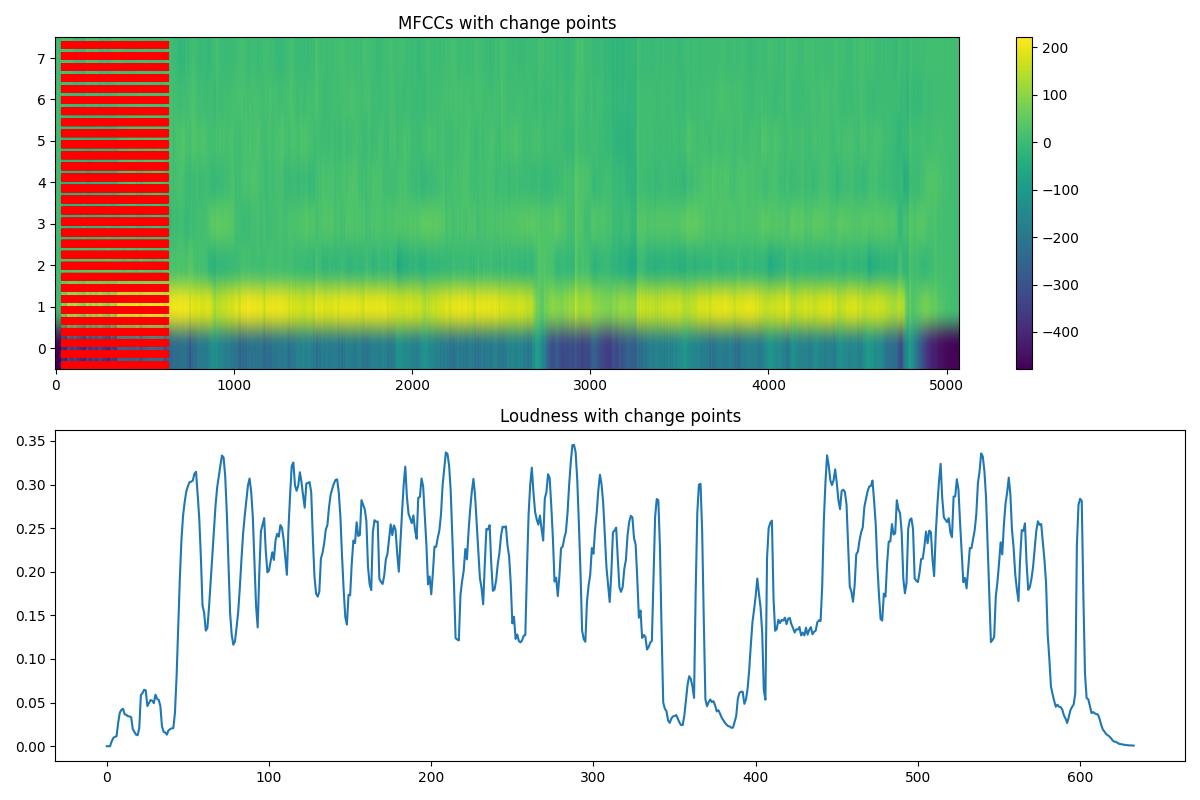
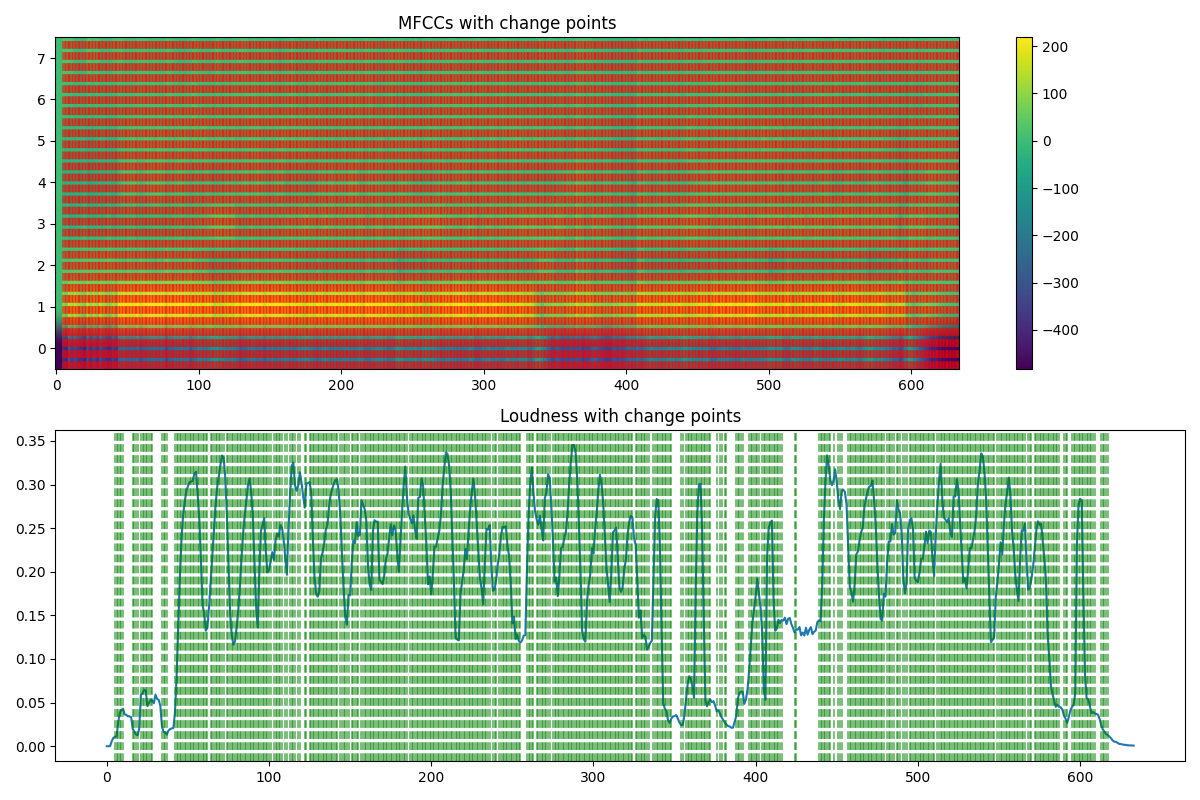
some progress

diff --git a/visualizer.py b/visualizer.py
@@ -62,13 +62,14 @@ y, sr = librosa.load("input.mp3", sr=sr)
 
 # # get chords from the whole track
 # ...
-# ..
 
 # get sequences of features over time
-mfccs = librosa.feature.mfcc(y=y, sr=sr, n_mfcc=8)
+hop_length = 512 * 8  # Use consistent hop length
+mfccs = librosa.feature.mfcc(y=y, sr=sr, n_mfcc=8, hop_length=hop_length)
 loudness = librosa.feature.rms(
-    y=y, frame_length=2048 * 8, hop_length=512 * 8
+    y=y, frame_length=2048 * 8, hop_length=hop_length
 )  # Simple RMS as perceptual loudness
+
 # plot each feature
 plt.figure(figsize=(12, 8))
 plt.subplot(2, 1, 1)
@@ -82,72 +83,82 @@ plt.savefig("features.png")
 
 
 # get major turn points in these features
-# categorize them as "major increase", "medium increase", "major decrease", "medium decrease"
-# and keep their timestamps
-def detect_significant_changes(mfccs, loudness, window_size=20):
+def detect_significant_changes(mfccs, loudness, window_size=4):
     """
     Detects significant changes in MFCCs and loudness over time using a sliding window.
-    Returns a dataframe with timestamps of significant changes.
-
-    Args:
-        mfccs: MFCC features with shape (n_mfcc, n_frames)
-        loudness: RMS loudness with shape (1, n_frames)
-        window_size: Size of window to detect changes (in frames)
+    Returns two separate dataframes for MFCC and loudness changes.
     """
-    # Number of frames (use the minimum to handle different lengths)
-    n_frames = min(mfccs.shape[1], loudness.shape[1])
-
-    # Initialize lists to store results
-    timestamps = []
+    # Initialize lists for MFCC changes
+    mfcc_timestamps = []
     mfcc_changes = []
+    mfcc_directions = []
+
+    # Initialize lists for loudness changes
+    loudness_timestamps = []
     loudness_changes = []
-    categories = []
+    loudness_directions = []
 
     # Define thresholds
-    major_threshold = 0.5
-    medium_threshold = 0.2
+    major_mfcc_threshold = 0.5
+    medium_mfcc_threshold = 0.2
+    major_loudness_threshold = 0.02
+    medium_loudness_threshold = 0.01
 
     # Use a sliding window to detect changes
-    for i in range(window_size, n_frames):
-        # Calculate change in MFCCs (average across all coefficients)
+    for i in range(window_size, mfccs.shape[1]):
+        # Calculate change in MFCCs
         mfcc_diff = np.mean(np.abs(mfccs[:, i] - mfccs[:, i - window_size]))
+        mfcc_direction = (
+            "Increase"
+            if np.mean(mfccs[:, i]) > np.mean(mfccs[:, i - window_size])
+            else "Decrease"
+        )
+        # Track MFCC changes separately
+        if mfcc_diff > medium_mfcc_threshold:
+            mfcc_timestamps.append(i)
+            mfcc_changes.append(mfcc_diff)
+            category = "Major" if mfcc_diff > major_mfcc_threshold else "Medium"
+            mfcc_directions.append(f"{category} {mfcc_direction}")
 
+    for i in range(window_size, loudness.shape[1]):
         # Calculate change in loudness
         loudness_diff = np.abs(loudness[0, i] - loudness[0, i - window_size])
+        loudness_direction = (
+            "Increase" if loudness[0, i] > loudness[0, i - window_size] else "Decrease"
+        )
 
-        # Only add points with significant changes
-        if mfcc_diff > medium_threshold or loudness_diff > medium_threshold:
-            timestamps.append(i)
-            mfcc_changes.append(mfcc_diff)
+        # Track loudness changes separately
+        if loudness_diff > medium_loudness_threshold:
+            loudness_timestamps.append(i)
             loudness_changes.append(loudness_diff)
+            category = "Major" if loudness_diff > major_loudness_threshold else "Medium"
+            loudness_directions.append(f"{category} {loudness_direction}")
 
-            # Categorize the change
-            if mfcc_diff > major_threshold:
-                categories.append("Major MFCC Change")
-            elif mfcc_diff > medium_threshold:
-                categories.append("Medium MFCC Change")
-            elif loudness_diff > major_threshold:
-                categories.append("Major Loudness Change")
-            elif loudness_diff > medium_threshold:
-                categories.append("Medium Loudness Change")
-            else:
-                categories.append("Minor Change")
-
-    # Create DataFrame
-    df = pd.DataFrame(
+    # Create DataFrame for MFCC changes
+    mfcc_df = pd.DataFrame(
         {
-            "timestamp": timestamps,
-            "frame": timestamps,  # Keep the frame number
+            "frame": mfcc_timestamps,
             "time_sec": [
-                frame_to_time(t, sr, hop_length=512 * 8) for t in timestamps
-            ],  # Convert frames to seconds
+                frame_to_time(t, sr, hop_length=hop_length) for t in mfcc_timestamps
+            ],
             "mfcc_change": mfcc_changes,
-            "loudness_change": loudness_changes,
-            "category": categories,
+            "category": mfcc_directions,
         }
     )
 
-    return df
+    # Create DataFrame for loudness changes
+    loudness_df = pd.DataFrame(
+        {
+            "frame": loudness_timestamps,
+            "time_sec": [
+                frame_to_time(t, sr, hop_length=hop_length) for t in loudness_timestamps
+            ],
+            "loudness_change": loudness_changes,
+            "category": loudness_directions,
+        }
+    )
+
+    return mfcc_df, loudness_df
 
 
 def frame_to_time(frame_number, sr, hop_length=512):
@@ -155,31 +166,30 @@ def frame_to_time(frame_number, sr, hop_length=512):
     return frame_number * hop_length / sr
 
 
-# Replace your encode_changes and categorize_changes calls with:
-significant_changes = detect_significant_changes(mfccs, loudness)
-print(significant_changes)
+# Usage:
+mfcc_changes, loudness_changes = detect_significant_changes(mfccs, loudness)
+print("MFCC Changes:")
+print(mfcc_changes.head(5))
+print("\nLoudness Changes:")
+print(loudness_changes.head(5))
 
-# Optional: Plot the significant change points on your features
+# Plot with separate change points
 plt.figure(figsize=(12, 8))
 
-# Plot MFCCs
+# Plot MFCCs with MFCC change points
 plt.subplot(2, 1, 1)
 plt.title("MFCCs with change points")
 plt.imshow(mfccs, aspect="auto", origin="lower")
 plt.colorbar()
-# Mark significant changes
-for idx, row in significant_changes.iterrows():
-    if "MFCC" in row["category"]:
-        plt.axvline(x=row["frame"], color="r", linestyle="--", alpha=0.5)
+for idx, row in mfcc_changes.iterrows():
+    plt.axvline(x=row["frame"], color="r", linestyle="--", alpha=0.5)
 
-# Plot Loudness
+# Plot Loudness with loudness change points
 plt.subplot(2, 1, 2)
 plt.title("Loudness with change points")
 plt.plot(loudness[0])
-# Mark significant changes
-for idx, row in significant_changes.iterrows():
-    if "Loudness" in row["category"]:
-        plt.axvline(x=row["frame"], color="r", linestyle="--", alpha=0.5)
+for idx, row in loudness_changes.iterrows():
+    plt.axvline(x=row["frame"], color="g", linestyle="--", alpha=0.5)
 
 plt.tight_layout()
 plt.savefig("features_with_changes.png")
